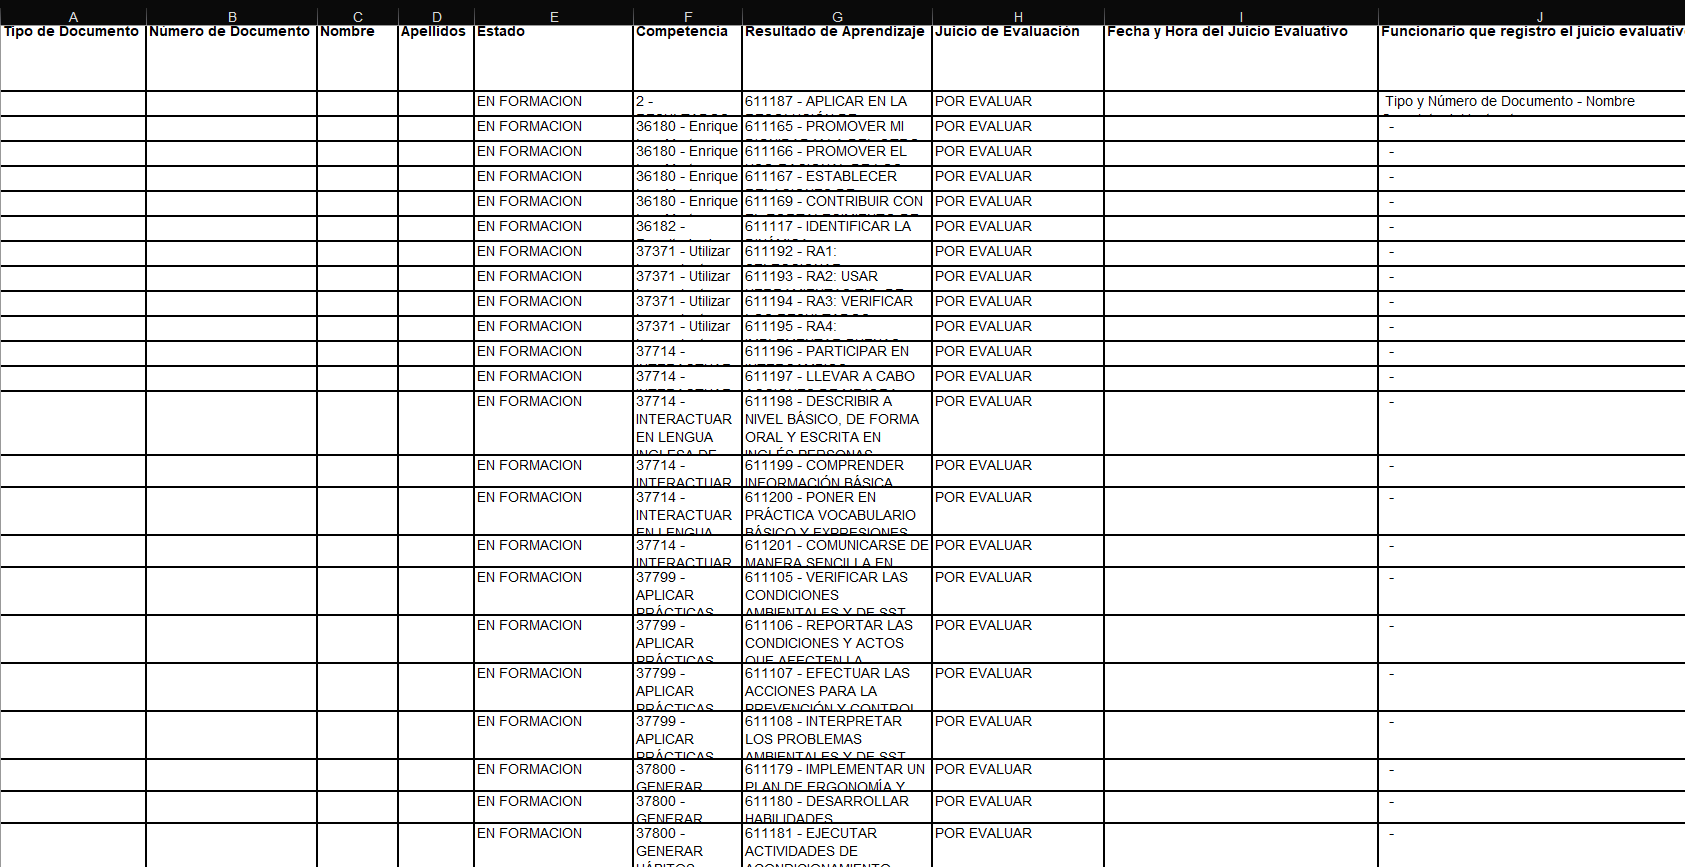
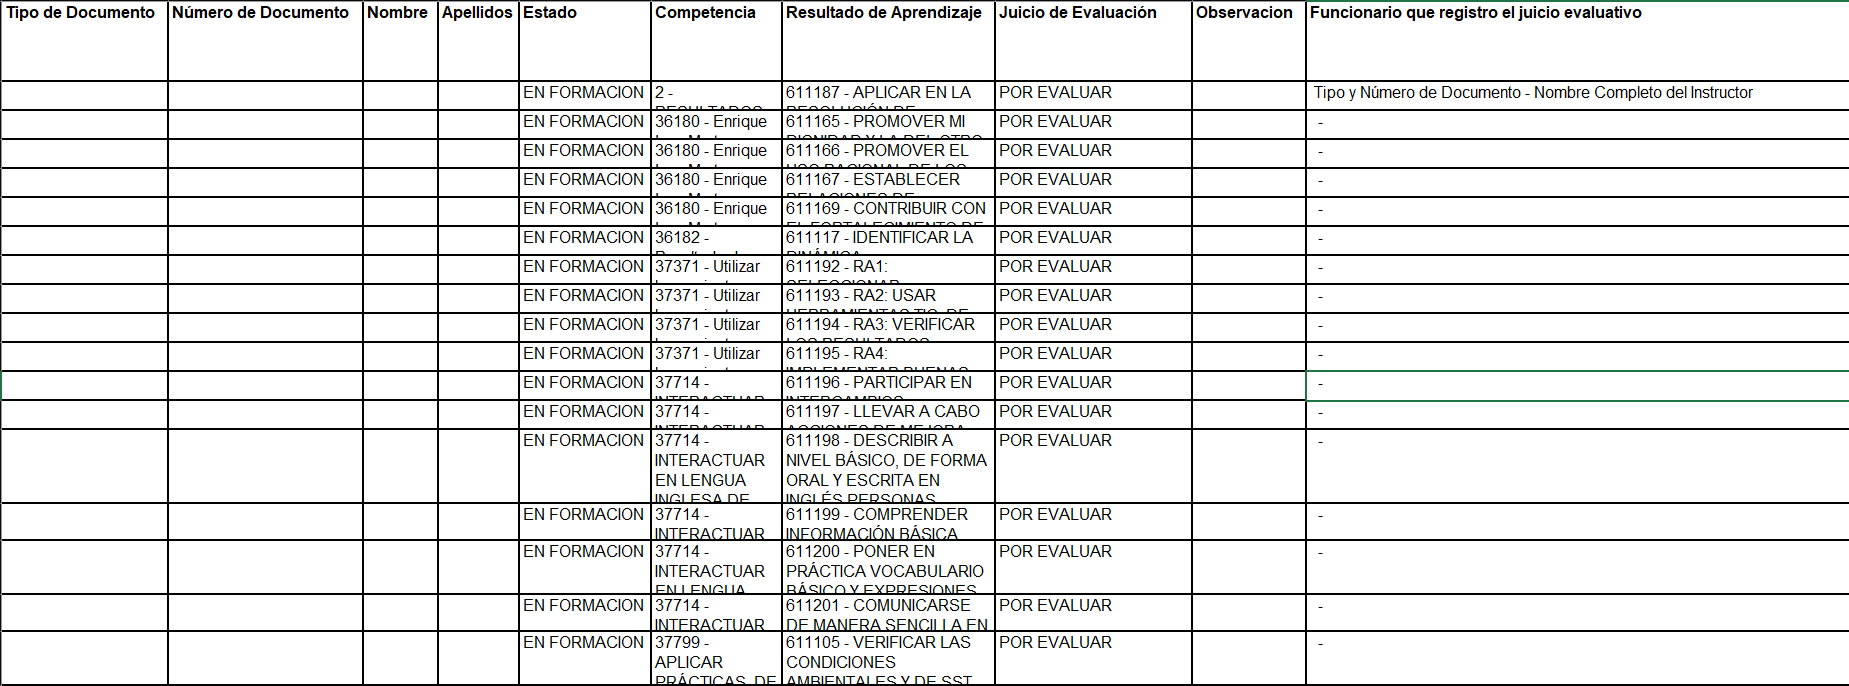
finish importar_aprendices

Changed region(s): [[0.0, 0.0918, 1.0, 1.0], [0.0, 0.0, 1.0, 0.0612]]

diff --git a/assets/css/importar-aprendices-dark.css b/assets/css/importar-aprendices-dark.css
@@ -136,6 +136,23 @@ ul{
   background-color: #2e8a00;
 }
 
+.cancelar-button{
+  padding: 10px;
+  background-color: red;
+  color: #fff;
+  border: none;
+  border-radius: 5px;
+}
+
+.cancelar-button:hover{
+  background-color: rgb(177, 0, 0);
+  cursor: pointer;
+}
+
+.cancelar-button:active{
+  background-color: rgb(177, 0, 0);
+}
+
 .img-modal--bg{
   display: none;
   position: absolute;
@@ -163,6 +180,12 @@ ul{
   transform: translate(-50%, -50%);
   width: 80%;
   height: 95%;
+}
+
+.selected-file{
+  width: fit-content;
+  height: fit-content;
+  margin: 1em auto 0 auto;
 }
 
 

diff --git a/assets/css/importar-aprendices.css b/assets/css/importar-aprendices.css
@@ -138,6 +138,23 @@ ul{
   background-color: #2e8a00;
 }
 
+.cancelar-button{
+  padding: 10px;
+  background-color: red;
+  color: #fff;
+  border: none;
+  border-radius: 5px;
+}
+
+.cancelar-button:hover{
+  background-color: rgb(177, 0, 0);
+  cursor: pointer;
+}
+
+.cancelar-button:active{
+  background-color: rgb(177, 0, 0);
+}
+
 .img-modal--bg{
   display: none;
   position: absolute;
@@ -165,6 +182,12 @@ ul{
   transform: translate(-50%, -50%);
   width: 80%;
   height: 95%;
+}
+
+.selected-file{
+  width: fit-content;
+  height: fit-content;
+  margin: 1em auto 0 auto;
 }
 
 

diff --git a/assets/js/formChange.js b/assets/js/formChange.js
@@ -1,0 +1,10 @@
+let input = document.getElementById("fileInput");
+let fileState = document.querySelector(".selected-file");
+
+input.addEventListener("change", () =>{
+  let files = input.files;
+
+  let file = files[0].name;
+
+  fileState.innerText = `Archivo seleccionado: ${file}`;
+});

diff --git a/functions/importar_aprendices.php b/functions/importar_aprendices.php
@@ -23,6 +23,8 @@
 
   $temp_file = $file["tmp_name"];
 
+  $fecha = date("Y-m-d H:i:s");
+
   // Verificar que el archivo si sea CSV
   $finfo = finfo_open(FILEINFO_MIME_TYPE);
 
@@ -57,8 +59,9 @@
   stream_filter_append($archivo, "convert.iconv.Windows-1252/UTF-8");
 
   if (!$archivo){
-    header("Refresh: 1, ../index.php?page=fichas/importar_aprendices&ficha=$ficha");
+    header("Refresh: 0, ../index.php?page=fichas/importar_aprendices&ficha=$ficha");
     echo("<script>alert('Error al leer el archivo')</script>");
+    exit;
   }
 
   $encabezado = fgetcsv($archivo, 0, ";");
@@ -76,13 +79,26 @@
 
   // Eliminar juicios anteriores (en caso de que los haya) y resetear la cantidad de rae aprobados de cada aprendiz en 0
   eliminar_juicios_ficha($ficha);
-  reset_juicios_aprendiz($ficha);
+  reset_juicios_ficha($ficha);
 
   while ($fila = fgetcsv($archivo, 0, ";")){
 
     $tipo_documento = strtoupper(trim($fila[0]));  
 
     $documento = intval($fila[1]);
+
+    // Si el aprendiz pertenecía a una ficha anteriormente, arroja un array, sino arroja null
+    $ficha_aprendiz = obtener_ficha($documento);
+    
+    if ($ficha_aprendiz){
+      $ficha_anterior = $ficha_aprendiz["nro_ficha"];
+
+      if ($ficha_anterior != $ficha){
+        eliminar_juicios_aprendiz($documento);
+        reset_juicios_aprendiz($documento);
+        actualizar_ficha($documento, $ficha);
+      }
+    }
 
     $nombre = trim($fila[2]);
     [$primer_nombre, $segundo_nombre] = obtener_nombres($nombre);
@@ -107,14 +123,16 @@
       crear_aprendiz($tipo_documento, $documento, $primer_nombre, $segundo_nombre, $primer_apellido, $segundo_apellido, $estado, $ficha, 0);
     }
 
-    $evaluador = $fila[8];
+    $observacion = $fila[8];
 
-    $documento_evaluador = obtener_evaluador($evaluador);
+    $evaluador = $fila[9];
+
+    [$documento_evaluador, $nombre_evaluador] = obtener_evaluador($evaluador);
 
 
 
     // Insertar los juicios evaluativos del aprendiz
-    insertar_juicio($documento, $rae_final, $juicio, $documento_evaluador);
+    insertar_juicio($documento, $rae_final, $juicio, $documento_evaluador, $nombre_evaluador, $fecha, $observacion);
 
     // Actualizar la cantidad de juicios aprobados del aprendiz actual
     $cant_juicios = obtener_juicios_aprobados($documento);
@@ -232,13 +250,23 @@
     return $result["id"];
   }
 
-  function reset_juicios_aprendiz($ficha){
+  function reset_juicios_ficha($ficha){
     global $conn;
 
     $sql = "UPDATE aprendices SET cant_rae_aprobados = 0 WHERE nro_ficha = ?";
 
     $stmt = $conn->prepare($sql);
     $stmt->bind_param("i", $ficha);
+    $stmt->execute();
+  }
+
+  function reset_juicios_aprendiz($aprendiz){
+    global $conn;
+
+    $sql = "UPDATE aprendices SET cant_rae_aprobados = 0 WHERE nro_documento = ?";
+
+    $stmt = $conn->prepare($sql);
+    $stmt->bind_param("i", $aprendiz);
     $stmt->execute();
   }
 
@@ -249,6 +277,16 @@
 
     $stmt = $conn->prepare($sql);
     $stmt->bind_param("i", $ficha);
+    $stmt->execute();
+  }
+
+  function eliminar_juicios_aprendiz($aprendiz){
+    global $conn;
+
+    $sql = "DELETE FROM juicios_evaluativos WHERE id_aprendiz = ?";
+
+    $stmt = $conn->prepare($sql);
+    $stmt->bind_param("i", $aprendiz);
     $stmt->execute();
   }
 
@@ -277,22 +315,51 @@
     $stmt->execute();
   }
 
-  function insertar_juicio($aprendiz, $rae, $juicio, $evaluador){
+  function insertar_juicio($aprendiz, $rae, $juicio, $evaluador, $nombre_evaluador, $fecha, $observacion){
     global $conn;
 
-    $sql = "INSERT INTO juicios_evaluativos (id_aprendiz, id_rae, estado, id_evaluador) VALUES (?, ?, ?, ?)";
+    $sql = "INSERT INTO juicios_evaluativos (id_aprendiz, id_rae, estado, id_evaluador, nombre_evaluador, fecha_y_hora, observacion) VALUES (?, ?, ?, ?, ?, ?, ?)";
 
     $stmt = $conn->prepare($sql);
-    $stmt->bind_param("iisi", $aprendiz, $rae, $juicio, $evaluador);
+    $stmt->bind_param("iisisss", $aprendiz, $rae, $juicio, $evaluador, $nombre_evaluador, $fecha, $observacion);
     $stmt->execute();
   }
 
   function obtener_evaluador($columna_evaluador){
+    if ($columna_evaluador == ""){
+      return [null, null];
+    }
+
     // Separar nombre, tipo de documento y documento
-    $evaluador = explode("-", $columna_evaluador);
+    $evaluador = explode(" - ", $columna_evaluador);
 
     $info_documento = explode(" ", $evaluador[0]);
 
-    return $info_documento[1];
+    return [$info_documento[1], $evaluador[1]];
+  }
+
+  function obtener_ficha($aprendiz){
+    global $conn;
+
+    $sql = "SELECT nro_ficha FROM aprendices WHERE nro_documento = ?";
+
+    $stmt = $conn->prepare($sql);
+    $stmt->bind_param("i", $aprendiz);
+    $stmt->execute();
+
+    $result = $stmt->get_result();
+    $result = $result->fetch_assoc();
+
+    return $result;
+  }
+
+  function actualizar_ficha($aprendiz, $nueva_ficha){
+    global $conn;
+
+    $sql = "UPDATE aprendices SET nro_ficha = ? WHERE nro_documento = ?";
+
+    $stmt = $conn->prepare($sql);
+    $stmt->bind_param("ii", $nueva_ficha, $aprendiz);
+    $stmt->execute();
   }
 ?>

diff --git a/pages/fichas/importar_aprendices.php b/pages/fichas/importar_aprendices.php
@@ -42,11 +42,11 @@
       <p>A continuación se muestra una imágen con un formato adecuado para subir los aprendices con un excel.</p>
     </div>
 
-    <div class="img-container">
-      <div class="img-clickable" onclick="toggleModal('imgModalBg', 'closeModal')">
+    <div class="img-container" onclick="window.open('./assets/img/juicios-excel.png')">
+      <div class="img-clickable">
         <span>Ver imágen</span>
       </div>
-      <img src="./assets/img/juicios-excel.png" alt="Imágen con formato de excel" class="warning-image" onclick="toggleModal('imgModalBg', 'closeModal')">
+      <img src="./assets/img/juicios-excel.png" alt="Imágen con formato de excel" class="warning-image">
     </div>
   </div>
 
@@ -56,14 +56,11 @@
     <input type="hidden" name="ficha" value="<?= $_GET["ficha"]; ?>">
 
     <input type="submit" value="Importar aprendices">
+
+    <button type="button" class="cancelar-button" onclick="window.location.href = '?page=fichas/visualizar_ficha&ficha=<?= $_GET['ficha']; ?>'">Cancelar</button>
   </form>
+
+  <p class="selected-file"></p>
 </div>
 
-<div class="img-modal--bg" id="imgModalBg">
-  <span id="closeModal">
-    <i class="bi bi-x-lg"></i>
-  </span>
-  <img src="./assets/img/juicios-excel.png" alt="Imágen con formato de excel">
-</div>
-
-<script src="./assets/js/modalImage.js"></script>
+<script src="./assets/js/formChange.js"></script>
